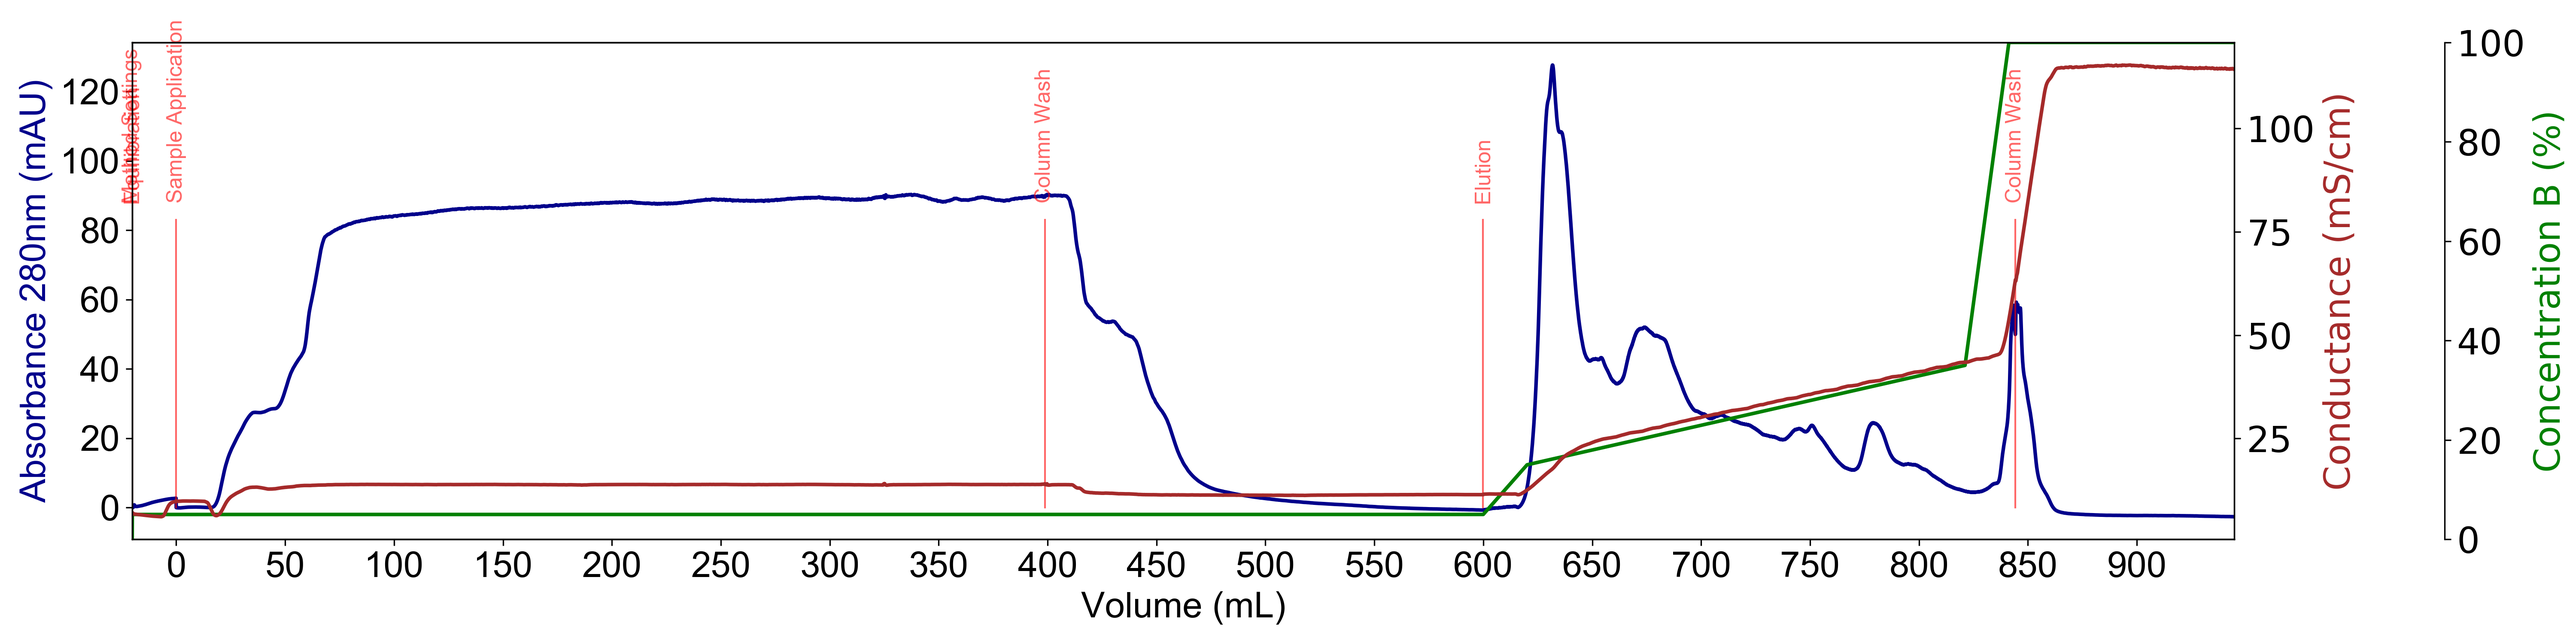
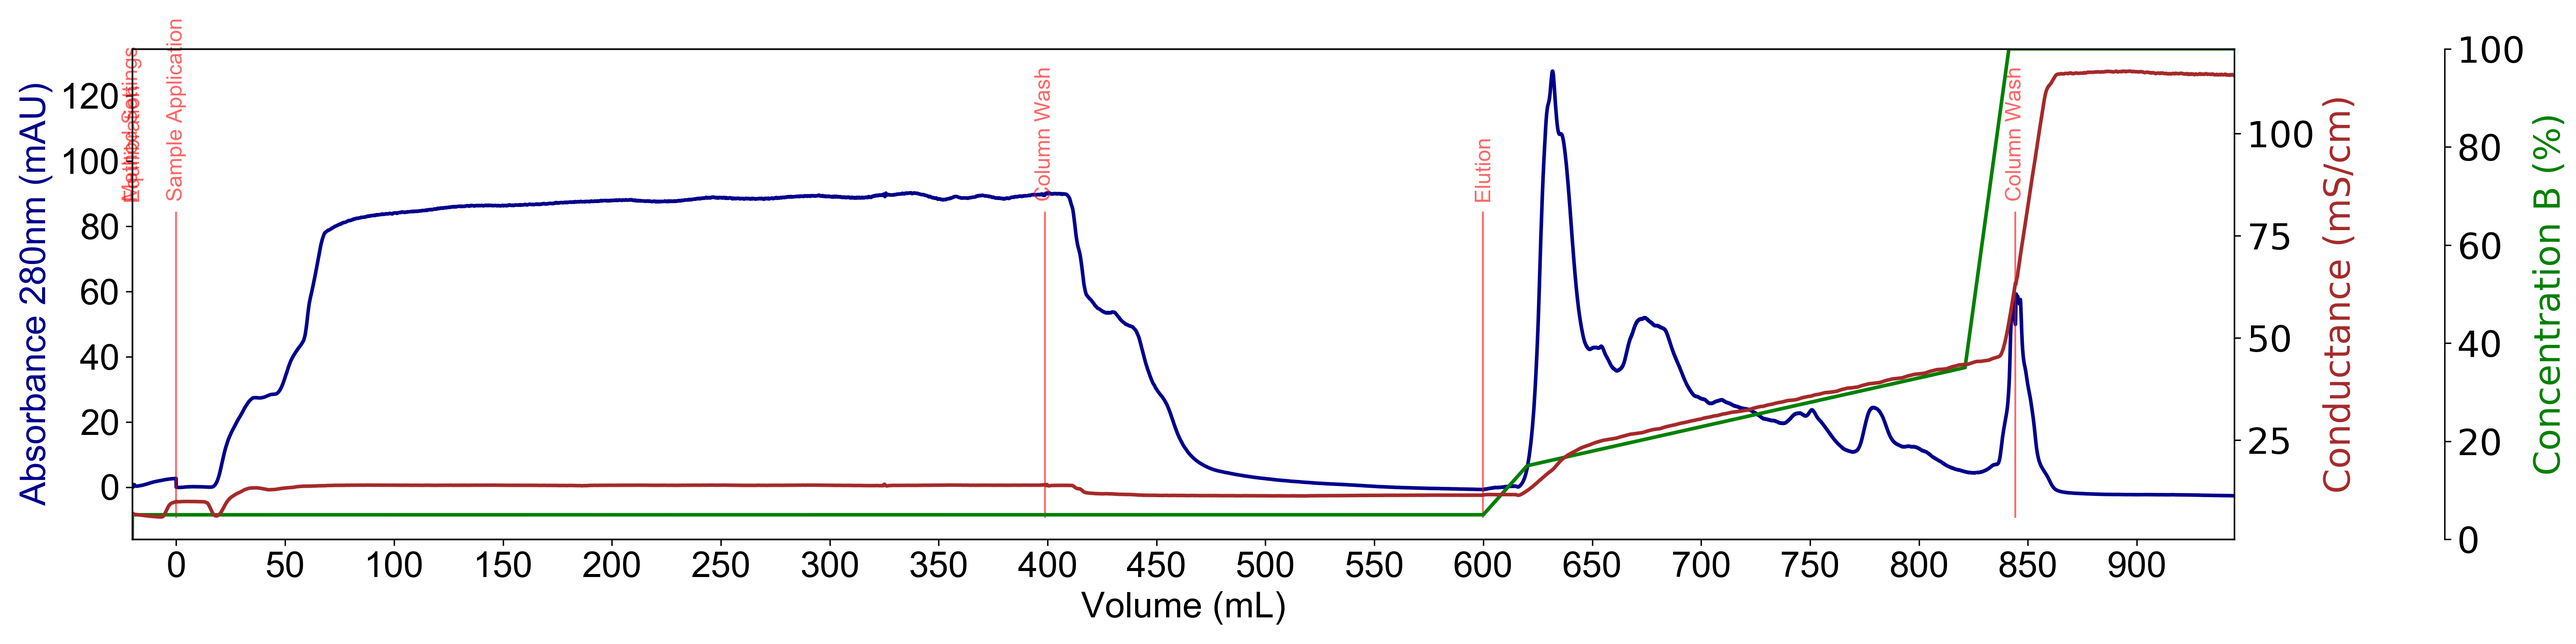
Updates

diff --git a/plotakta.py b/plotakta.py
@@ -1,5 +1,5 @@
 #SAMI CHAABAN
-#VERSION 1.1 2020-02-24
+#VERSION 1.1 2020-02-25
 
 import optparse
 import numpy as np
@@ -95,7 +95,7 @@ def mainloop(params):
 
     if not aktafile_exists:
 
-        print('\nERROR: ' + aktafile + ' does not exist.')
+        print('\nERROR: ' + aktafile + ' does not exist.Run plotakta.py -h to get the help text.')
 
         sys.exit()
 
@@ -278,6 +278,9 @@ def mainloop(params):
     xmin = uv_x[0]
     xmax = uv_x[-1]
 
+    ymins = []
+    ymaxs = []
+
     #####################################################        
 
     fig,ax = plt.subplots(figsize = (20,5))
@@ -293,63 +296,15 @@ def mainloop(params):
 
         ax.plot(uv_x, uv_trace, linewidth = 2, color = 'darkblue')
 
+    # MAIN PLOT
 
     plt.xlabel('Volume (mL)', fontsize = 20, fontname="Arial")
     plt.ylabel('Absorbance 280nm (mAU)', fontsize = 20, fontname="Arial", color = 'darkblue')
     plt.xticks(fontsize = 20, fontname="Arial")
     plt.yticks(fontsize = 20, fontname="Arial")
 
-    if showUVmax:
-
-        maxpos = uv_trace.index(max(uv_trace))
-        maxvol = uv_x[maxpos]
-
-        ax.plot([maxvol, maxvol], [np.amin(uv_trace), np.amax(uv_trace)], '--', color = 'orange', linewidth = 1.5)
-
-    if doFracs:
-
-        frac_x_loc = []
-
-        for d in np.arange(0,len(frac_x)-1):
-
-            frac_x_loc.append((frac_x[d] + frac_x[d+1]) /2)
-
-        for fx, ff, fxl in zip(frac_x, fracs, frac_x_loc):
-
-            if useElutionMark:
-
-                if fx > log_x[log_text.index('Elution')]:
-
-                    ax.text(fxl, int(np.amax(uv_trace)/8), ff, fontsize=15, rotation = 90,
-                             horizontalalignment='center', fontname="Arial", color = 'k', alpha = 0.6)
-
-                    ax.plot([fx]*int(np.amax(uv_trace)), np.arange(0,int(np.amax(uv_trace))), '--', color = 'k', alpha = 0.6, linewidth = 1)
-
-            else:
-
-                ax.text(fxl, int(np.amax(uv_trace)/8), ff, fontsize=15, rotation = 90,
-                         horizontalalignment='center', fontname="Arial", color = 'k', alpha = 0.6)
-
-                ax.plot([fx]*int(np.amax(uv_trace)), np.arange(0,int(np.amax(uv_trace))), '--', color = 'k', alpha = 0.6, linewidth = 1)
-
-        if showOnlyFracs:
-
-            if useElutionMark:
-
-                xmin = log_x[log_text.index('Elution')]
-                xmax = np.amax(frac_x)
-
-            else:
-
-                xmin = np.amin(frac_x)
-                xmax = np.amax(frac_x)
-
-        else:
-
-            xmin = uv_x[0]
-            xmax = uv_x[-1]
-
-        plt.xlim(xmin, xmax)
+    ymins.append(ax.get_ylim()[0])
+    ymaxs.append(ax.get_ylim()[1])
 
     if doConcB:
 
@@ -361,6 +316,9 @@ def mainloop(params):
 
         if doCond:
             ax4.spines["right"].set_position(("axes", 1.1))
+            
+        ymins.append(ax4.get_ylim()[0])
+        ymaxs.append(ax4.get_ylim()[1])
 
     if doCond:
 
@@ -368,6 +326,14 @@ def mainloop(params):
         ax3.plot(cond_x, cond_trace, color = 'brown', linewidth = 2)
         ax3.set_ylabel("Conductance (mS/cm)",fontsize=20, color = 'brown')
         ax3.yaxis.set_tick_params(labelsize=20)
+        
+        ymins.append(ax3.get_ylim()[0])
+        ymaxs.append(ax3.get_ylim()[1])
+        
+    ##############
+
+    ymin = np.amin(ymins)
+    ymax = np.amax(ymaxs)
 
     if doLog:
 
@@ -380,7 +346,7 @@ def mainloop(params):
                     ax.text(lx, int(np.amax(uv_trace)*0.7), lt, fontsize=12, rotation = 90,
                              horizontalalignment='center', fontname="Arial", color = 'r', alpha = 0.6)
 
-                    ax.plot([lx]*int(np.amax(uv_trace)*0.66), np.arange(0,int(np.amax(uv_trace)*0.66)), '-',
+                    ax.plot([lx, lx], [ymin,np.amax(uv_trace)*0.66], '-',
                             color = 'r', alpha = 0.6, linewidth = 1)
 
             elif showOnlyFracs and doFracs and useElutionMark:
@@ -390,7 +356,7 @@ def mainloop(params):
                     ax.text(lx, int(np.amax(uv_trace)*0.7), lt, fontsize=12, rotation = 90,
                              horizontalalignment='center', fontname="Arial", color = 'r', alpha = 0.6)
 
-                    ax.plot([lx]*int(np.amax(uv_trace)*0.66), np.arange(0,int(np.amax(uv_trace)*0.66)), '-',
+                    ax.plot([lx, lx], [ymin,np.amax(uv_trace)*0.66], '-',
                             color = 'r', alpha = 0.6, linewidth = 1)
 
             elif showOnlyFracs and doFracs:
@@ -400,7 +366,7 @@ def mainloop(params):
                     ax.text(lx, int(np.amax(uv_trace)*0.7), lt, fontsize=12, rotation = 90,
                              horizontalalignment='center', fontname="Arial", color = 'r', alpha = 0.6)
 
-                    ax.plot([lx]*int(np.amax(uv_trace)*0.66), np.arange(0,int(np.amax(uv_trace)*0.66)), '-',
+                    ax.plot([lx, lx], [ymin,np.amax(uv_trace)*0.66], '-',
                             color = 'r', alpha = 0.6, linewidth = 1)
 
             else:
@@ -408,7 +374,7 @@ def mainloop(params):
                 ax.text(lx, int(np.amax(uv_trace)*0.7), lt, fontsize=12, rotation = 90,
                          horizontalalignment='center', fontname="Arial", color = 'r', alpha = 0.6)
 
-                ax.plot([lx]*int(np.amax(uv_trace)*0.66), np.arange(0,int(np.amax(uv_trace)*0.66)), '-',
+                ax.plot([lx, lx], [ymin,np.amax(uv_trace)*0.66], '-',
                         color = 'r', alpha = 0.6, linewidth = 1)
 
     if doDig1:
@@ -459,6 +425,56 @@ def mainloop(params):
             print('\nERROR: Something went wrong parsing the Cetac data.')
 
             sys.exit()
+            
+    if showUVmax:
+
+        maxpos = uv_trace.index(max(uv_trace))
+        maxvol = uv_x[maxpos]
+
+        ax.plot([maxvol, maxvol], [ymin, np.amax(uv_trace)], color = 'orange', linewidth = 1.5)
+
+    if doFracs:
+
+        frac_x_loc = []
+
+        for d in np.arange(0,len(frac_x)-1):
+
+            frac_x_loc.append((frac_x[d] + frac_x[d+1]) /2)
+
+        for fx, ff, fxl in zip(frac_x, fracs, frac_x_loc):
+
+            if useElutionMark:
+
+                if fx > log_x[log_text.index('Elution')]:
+
+                    ax.text(fxl, int(np.amax(uv_trace)/8), ff, fontsize=15, rotation = 90,
+                             horizontalalignment='center', fontname="Arial", color = 'k', alpha = 0.6)
+
+                    ax.plot([fx, fx], [ymin, ymax], '--', color = 'k', alpha = 0.6, linewidth = 1)
+
+            else:
+
+                ax.text(fxl, int(np.amax(uv_trace)/8), ff, fontsize=15, rotation = 90,
+                         horizontalalignment='center', fontname="Arial", color = 'k', alpha = 0.6)
+
+                ax.plot([fx, fx], [ymin, ymax], '--', color = 'k', alpha = 0.6, linewidth = 1)
+
+        if showOnlyFracs:
+
+            if useElutionMark:
+
+                xmin = log_x[log_text.index('Elution')]
+                xmax = np.amax(frac_x)
+
+            else:
+
+                xmin = np.amin(frac_x)
+                xmax = np.amax(frac_x)
+
+        else:
+
+            xmin = uv_x[0]
+            xmax = uv_x[-1]
 
     plt.xlim(xmin, xmax)
 

diff --git a/README.md b/README.md
@@ -54,13 +54,13 @@ python plotakta.py -cbl mypurification_results.csv
 
 ![Example plot -cbl](./Examples/Option-cbl.png "Example plot -cbl")
 
-UV trace, conductance trace, and fractions labeled, zoomed into the elution fractions:
+UV trace, conductance trace, and fractions labeled, zoomed into the elution fractions, with a line drawn at maximum UV:
 
 ```
-python plotakta.py -cfoe mypurification_results.csv
+python plotakta.py -cfoem mypurification_results.csv
 ```
 
-![Example plot -cfoe](./Examples/Option-cfoe.png "Example plot -cfoe")
+![Example plot -cfoem](./Examples/Option-cfoem.png "Example plot -cfoem")
 
 ## Updates
 
